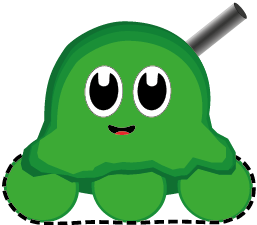
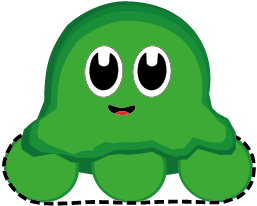
U can hit da boss and da boss can hit U, Added health bar for boss <- shortens when boss hands are hit. josies boss sprite is now smaller and without gun

diff --git a/JosieGame/Classes/PlayerBoss.cpp b/JosieGame/Classes/PlayerBoss.cpp
@@ -8,6 +8,7 @@ const float walkspeed = 22.0;
 
 PlayerBoss::PlayerBoss() {
 	_level = NULL;
+
 }
 PlayerBoss::~PlayerBoss() {
 	CCLOG("~BOSSPLAYER");
@@ -19,6 +20,7 @@ PlayerBoss* PlayerBoss::initWithLevel(Level* level) {
 	bp->autorelease();
 	bp->setAnchorPoint(Vec2(0.5, 0));
 	bp->_level = level;
+	bp->projectiles = cocos2d::Vector<Projectile*>{200};
 	return bp;
 }
 
@@ -42,35 +44,38 @@ void PlayerBoss::useShot(int id) {
 	case 1: {
 		Projectile* projectile_mid = Projectile::init(
 					this->getBoundingBox().getMidX(),
-					this->getBoundingBox().getMaxY());
+					this->getBoundingBox().getMaxY(),this);
 		_level->addChild(projectile_mid, 1);
 		projectile_mid->runAction(
 				MoveTo::create(2.0f, Vec2(this->getPositionX(), 1100)));
+		this->projectiles.pushBack(projectile_mid);
 	} break;
 	case 2: {
 		Projectile* projectile_midright = Projectile::init(
 				this->getBoundingBox().getMidX() + 20,
-				this->getBoundingBox().getMaxY());
+				this->getBoundingBox().getMaxY(),this);
 		Projectile* projectile_midleft = Projectile::init(
 				this->getBoundingBox().getMidX() - 20,
-				this->getBoundingBox().getMaxY());
+				this->getBoundingBox().getMaxY(),this);
 		_level->addChild(projectile_midleft, 1);
 		_level->addChild(projectile_midright, 1);
 		projectile_midleft->runAction(
 				MoveTo::create(2.0f, Vec2(this->getPositionX() - 20, 1100)));
 		projectile_midright->runAction(
 				MoveTo::create(2.0f, Vec2(this->getPositionX() + 20, 1100)));
+		this->projectiles.pushBack(projectile_midright);
+		this->projectiles.pushBack(projectile_midleft);
 	}break;
 	case 3: {
 		Projectile* projectile_mid = Projectile::init(
 				this->getBoundingBox().getMidX(),
-				this->getBoundingBox().getMaxY());
+				this->getBoundingBox().getMaxY(),this);
 		Projectile* projectile_left = Projectile::init(
 				this->getBoundingBox().getMidX() - 40,
-				this->getBoundingBox().getMaxY());
+				this->getBoundingBox().getMaxY(),this);
 		Projectile* projectile_right = Projectile::init(
 				this->getBoundingBox().getMidX() + 40,
-				this->getBoundingBox().getMaxY());
+				this->getBoundingBox().getMaxY(),this);
 		_level->addChild(projectile_mid, 1);
 		_level->addChild(projectile_left, 1);
 		_level->addChild(projectile_right, 1);
@@ -84,16 +89,16 @@ void PlayerBoss::useShot(int id) {
 	case 4: {
 		Projectile* projectile_midright = Projectile::init(
 				this->getBoundingBox().getMidX() + 20,
-				this->getBoundingBox().getMaxY());
+				this->getBoundingBox().getMaxY(),this);
 		Projectile* projectile_midleft = Projectile::init(
 				this->getBoundingBox().getMidX() - 20,
-				this->getBoundingBox().getMaxY());
+				this->getBoundingBox().getMaxY(),this);
 		Projectile* projectile_left = Projectile::init(
 				this->getBoundingBox().getMidX() - 40,
-				this->getBoundingBox().getMaxY());
+				this->getBoundingBox().getMaxY(),this);
 		Projectile* projectile_right = Projectile::init(
 				this->getBoundingBox().getMidX() + 40,
-				this->getBoundingBox().getMaxY());
+				this->getBoundingBox().getMaxY(),this);
 		_level->addChild(projectile_midleft, 1);
 		_level->addChild(projectile_midright, 1);
 		_level->addChild(projectile_left, 1);

diff --git a/JosieGame/Classes/Boss.cpp b/JosieGame/Classes/Boss.cpp
@@ -9,15 +9,10 @@
 #include "Level.h"
 //
 #include "PlayerBoss.h"
+#include "Projectile.h"
+//#include "CCProgressTimer.h"
 
 USING_NS_CC;
-
-float _health;
-bool _isAlive;
-
-
-
-
 
 
 Boss::Boss() {
@@ -27,6 +22,8 @@ Boss::Boss() {
 	this->_level = NULL;
 	this->left = NULL;
 	this->right = NULL;
+	this->_playerBoss = NULL;
+	this->_healthbar = NULL;
 }
 
 Boss::~Boss() {
@@ -38,8 +35,10 @@ Boss* Boss::initWithLevel(Level* level, PlayerBoss* playerboss)
 	Boss *boss = new Boss();
 	if(boss->initWithFile("boss_sprites/boss1.0.png"))
 	{
+
 		boss->autorelease();
 		boss->setAnchorPoint(Vec2(0.5,1));
+		boss->setPosition(960,1080);
 		boss->_level = level;
 		//
 		boss->_playerBoss = playerboss;
@@ -48,6 +47,14 @@ Boss* Boss::initWithLevel(Level* level, PlayerBoss* playerboss)
 
 		boss->setHealth(30.0f);
 		boss->_isAlive=true;
+
+		boss->_healthbar = ProgressTimer::create(Sprite::create("boss_sprites/healthbar.png"));
+		boss->_healthbar->setType(ProgressTimer::Type::BAR);
+		boss->_healthbar->setPercentage(100.0);
+		boss->_healthbar->setBarChangeRate(Vec2(1,0));
+		boss->_healthbar->setAnchorPoint(Vec2::ANCHOR_MIDDLE_TOP);
+		boss->_healthbar->setPosition(960,256);
+		boss->addChild(boss->_healthbar,50);
 	}
 
 	return boss;
@@ -61,14 +68,13 @@ void Boss::update(float dt)
 	_attackTimer -= dt;
 	if(_attackTimer <= 0)
 	{
-		CCLOG("%f",_attackTimer);
-		CCLOG("%d",att);
 		useAttack(att);
 		_attackTimer = 7;
 	}
 
 	checkPlayerHit(left, _playerBoss);
 	checkPlayerHit(right, _playerBoss);
+	checkBossHit();
 
 
 
@@ -90,12 +96,19 @@ void Boss::checkPlayerHit(Sprite* weapon, PlayerBoss* target)
 {
 	if(weapon->getBoundingBox().intersectsRect(target->getBoundingBox()))
 	{
-		auto fadeout = FadeOut::create(0.2);
-		auto fadein = FadeIn::create(0.2);
-		auto blinking = Sequence::create(fadeout,fadein,nullptr);
-		for(int i = 0; i<=5;i++)
-		{
-			target->runAction(blinking);
+		CCLOG("Player was hit");
+	}
+}
+
+void Boss::checkBossHit(){
+	for(Projectile* pr: this->_playerBoss->projectiles)
+	{
+		if(this->_healthbar->getPercentage() == 0)
+			this->_isAlive = false;
+		if(pr->checkCollision(this->left) || pr->checkCollision(this->right)){
+			this->_healthbar->setPercentage(_healthbar->getPercentage() - 10);
+			//_playerBoss->projectiles.eraseObject(pr);
+			return;
 		}
 	}
 }

diff --git a/JosieGame/Classes/Projectile.cpp b/JosieGame/Classes/Projectile.cpp
@@ -1,4 +1,5 @@
 #include "Projectile.h"
+#include "PlayerBoss.h"
 
 using namespace cocos2d;
 
@@ -7,15 +8,26 @@ Projectile::~Projectile() {
 	CCLOG("Projectile destroyed");
 }
 
-Projectile* Projectile::init(float x , float y)
+Projectile* Projectile::init(float x , float y, PlayerBoss* playerboss)
 {
 	Projectile* pr = new Projectile();
 	pr->initWithFile("particles/std_bullet.png");
 	pr->setPosition(x,y);
 	pr->autorelease();
+	pr->_playerboss = playerboss;
 	pr->scheduleUpdate();
 
 	return pr;
+}
+
+bool Projectile::checkCollision(Sprite* target)
+{
+	if(this->getBoundingBox().intersectsRect(target->getBoundingBox()))
+	{
+		this->killProjectile();
+		return true;
+	}
+	return false;
 }
 
 void Projectile::update(float dt)
@@ -25,6 +37,7 @@ void Projectile::update(float dt)
 
 void Projectile::killProjectile()
 {
+	_playerboss->projectiles.eraseObject(this);
 	this->removeFromParent();
 }
 

diff --git a/JosieGame/Classes/Boss.h b/JosieGame/Classes/Boss.h
@@ -10,7 +10,6 @@
 
 #include "cocos2d.h"
 class Level;
-//
 class PlayerBoss;
 
 class Boss : public cocos2d::Sprite
@@ -27,6 +26,7 @@ public:
 	void setHealth(float health);
 	void loadWeapons();
 	void checkPlayerHit(Sprite* weapon, PlayerBoss* target);
+	void checkBossHit();
 
 	float getHealth() { return _health ;}
 	bool isAlive() { return _isAlive ; }
@@ -37,10 +37,10 @@ private:
 	float _health;
 	bool _isAlive;
 	Level* _level;
-	//
 	PlayerBoss* _playerBoss;
 	Sprite* left;
 	Sprite* right;
+	cocos2d::ProgressTimer* _healthbar;
 
 
 };

diff --git a/JosieGame/Classes/Level.cpp b/JosieGame/Classes/Level.cpp
@@ -95,11 +95,11 @@ void Level::addPlayer() {
 	if (this->isBossLevel()) {
 		playerBoss = PlayerBoss::initWithLevel(this);
 		playerBoss->setPosition(Vec2(origin.x + visibleSize.width / 5, origin.y + 60));
+		playerBoss->setScale(0.7);//Josie needs to be smaller in BossLevel
 		this->addChild(playerBoss, 1);
 
 		//Adding Boss in this method for testing
 		boss = Boss::initWithLevel(this, playerBoss);
-		boss->setPosition(Vec2(origin.x + visibleSize.width/2, origin.y + visibleSize.height));
 		this->addChild(boss,1);
 
 	} else {

diff --git a/JosieGame/Classes/Projectile.h b/JosieGame/Classes/Projectile.h
@@ -2,17 +2,20 @@
 #define PROJECTILE_H_
 
 #include "cocos2d.h"
+class PlayerBoss;
 
 class Projectile : public cocos2d::Sprite
 {
 public:
 	Projectile();
 	virtual ~Projectile();
-	static Projectile* init(float x, float y);
+	static Projectile* init(float x, float y,PlayerBoss* playerboss);
 
+	bool checkCollision(Sprite* target);
 	void killProjectile();
 private:
 	void update(float dt);
+	PlayerBoss* _playerboss;
 };
 
 #endif /* PROJECTILE_H_ */

diff --git a/JosieGame/Classes/PlayerBoss.h b/JosieGame/Classes/PlayerBoss.h
@@ -2,6 +2,7 @@
 #define PLAYERBOSS_H_
 
 #include "cocos2d.h"
+class Projectile;
 class Level;
 
 class PlayerBoss : public cocos2d::Sprite {
@@ -16,8 +17,10 @@ public:
 	void jump();
 
 	void useShot(int id);
+	cocos2d::Vector<Projectile*> projectiles;
 private:
 	Level* _level;
+
 };
 
 #endif /* PLAYERBOSS_H_ */

diff --git a/JosieGame/Classes/PlayerControl.cpp b/JosieGame/Classes/PlayerControl.cpp
@@ -98,8 +98,7 @@ void PlayerControl::addBossControls()
 void PlayerControl::update(float dt)
 {
 	_counterForShoot += dt;
-	//CCLOG("%f",dt);
-	CCLOG("%f", this->_counterForShoot);
+
 	if(_counterForShoot >= 1.0)
 		{
 			_counterForShoot  = 0;
